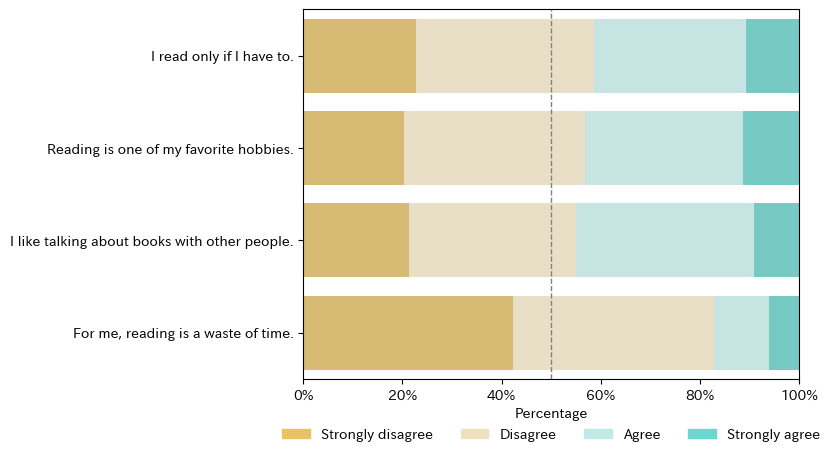
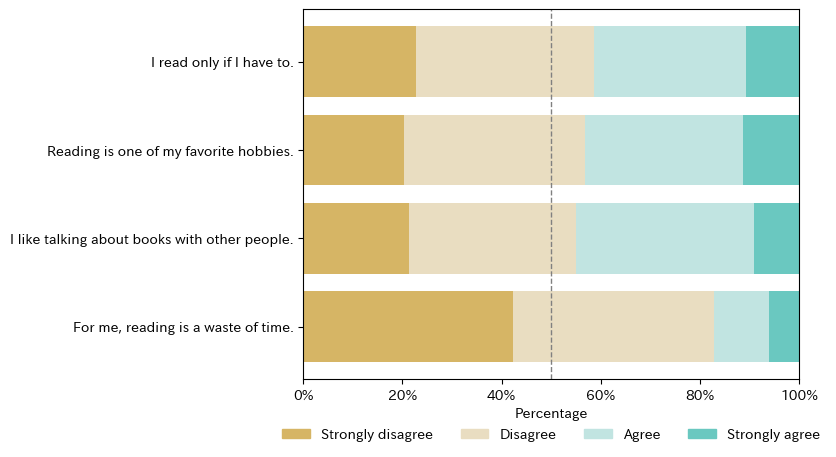
eda_tools の若干のリファクタリング。plot_category の縦軸の順序を反転させました。

diff --git a/py4stats/eda_tools/_nw.py b/py4stats/eda_tools/_nw.py
@@ -1263,7 +1263,7 @@ def diagnose_category(data: IntoFrameT, to_native: bool = True) -> IntoFrameT:
     """
     build.assert_logical(to_native, arg_name = 'to_native')
 
-    data_nw = nw.from_native(data, allow_series = True)
+    data_nw = nw.from_native(data)
     res_is_dummy = is_dummy(data_nw)
     dummy_col = res_is_dummy[res_is_dummy].index.to_list()
 
@@ -1293,17 +1293,15 @@ def diagnose_category(data: IntoFrameT, to_native: bool = True) -> IntoFrameT:
         'count':df.select(nw.all().count()).row(0),
         'miss_pct':df.select(nw.all().null_count() * nw.lit(100 / N)).row(0),
         'unique':df.select(nw.all().n_unique()).row(0),
-        # 'mode':[df[v].value_counts().row(0)[0] for v in var_name],
         'mode':[
             freq_table(df, v, descending = True, to_native = False).row(0)[0] 
             for v in var_name
             ],
-        # 'mode_freq':[df[v].value_counts().row(0)[1] for v in var_name],
         'mode_freq':[
             freq_table(df, v, descending = True, to_native = False).row(0)[1] 
             for v in var_name
             ],
-        'std_entropy':[std_entropy(df[v]) for v in var_name]
+        'std_entropy':[std_entropy(s) for s in df.iter_columns()]
         # 'std_entropy':df.select(
         #     nw.all().map_batches(std_entropy, returns_scalar = True)
         #     ).row(0)
@@ -2772,6 +2770,7 @@ def make_categ_barh(
     ax.set_xlim(0, 1)
     ax.set_ylabel('')
     ax.set_xlabel('Percentage')
+    ax.invert_yaxis()
 
     if show_vline:
         ax.axvline(0.5, color = "gray", linewidth = 1, linestyle = "--")
@@ -2909,7 +2908,10 @@ def plot_category(
 
     # カテゴリー変数のコーディング確認 ==================================
     cording = data_nw[variables[0]].unique().to_list()
-    is_common_cording = all([data_nw[v].unique().is_in(cording).all() for v in variables])
+    is_common_cording = all([
+        s.unique().is_in(cording).all() 
+        for s in data_nw.iter_columns()
+    ])
 
     if not is_common_cording:
         messages = "This function assumes that all columns contained in `data` share a common coding scheme."
@@ -2924,7 +2926,6 @@ def plot_category(
 
     list_values = table_to_plot['value'].unique().to_list()
 
-    # if sort_by == 'values':
     list_values.reverse()
 
     # if nw.is_ordered_categorical(table_to_plot['value']): 
